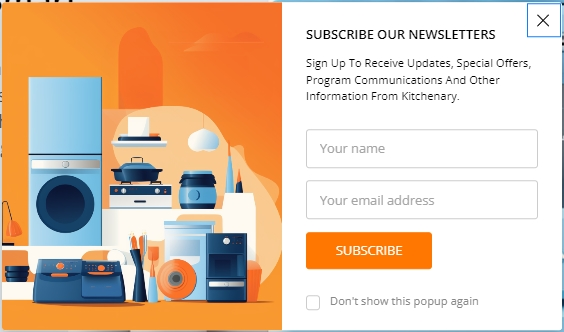
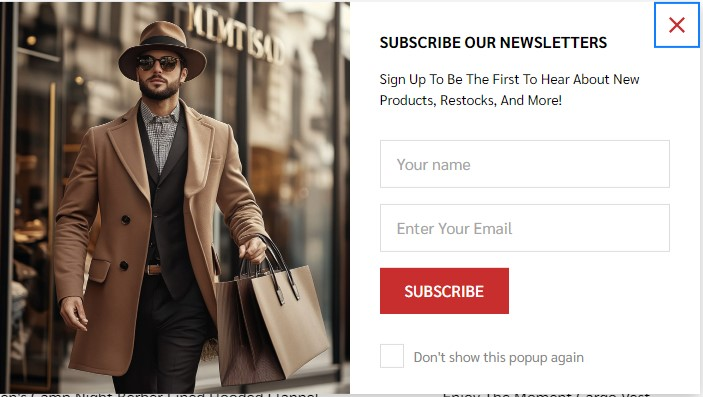
Update doc newsletter footer & popup

diff --git a/docs/usage.md b/docs/usage.md
@@ -481,7 +481,7 @@ To change delay time and show up again peropd for display **Newsletter Popup**, 
 
 To change image in **Newsletter popup**, simply copy and paste your Image URL to **Newsletter Popup background URL**
 
-![edit-newsletter-popup](img/newletter-popup-edit.png)
+![edit-newsletter-popup](img/newletter-popup-edit.jpg)
 
 ### Benefit
 
